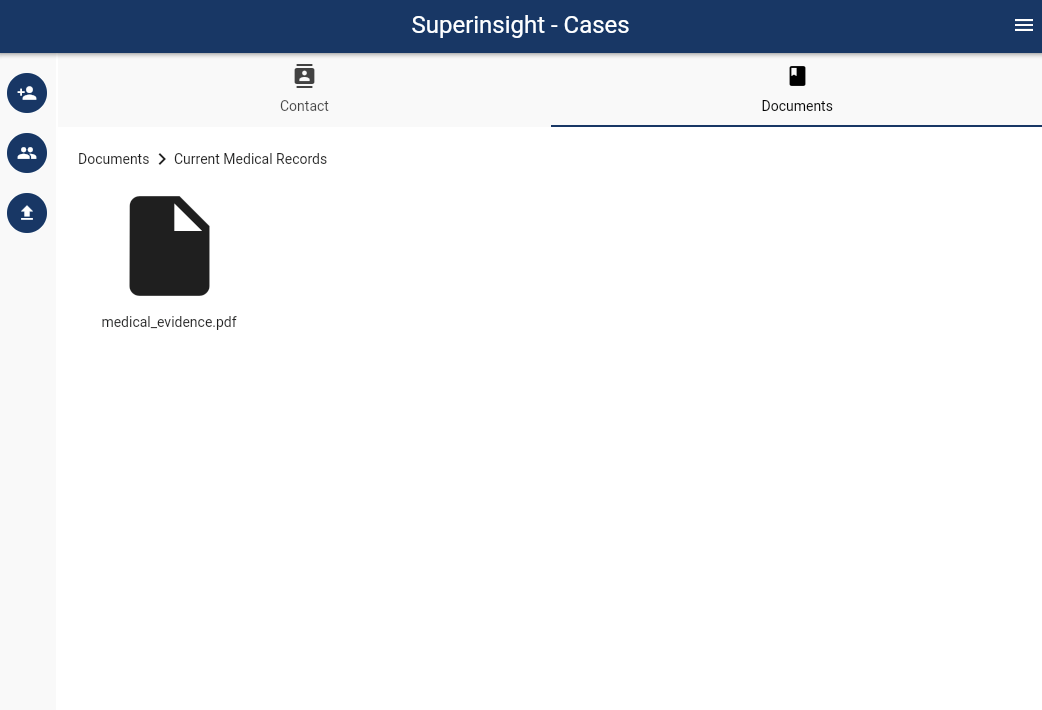
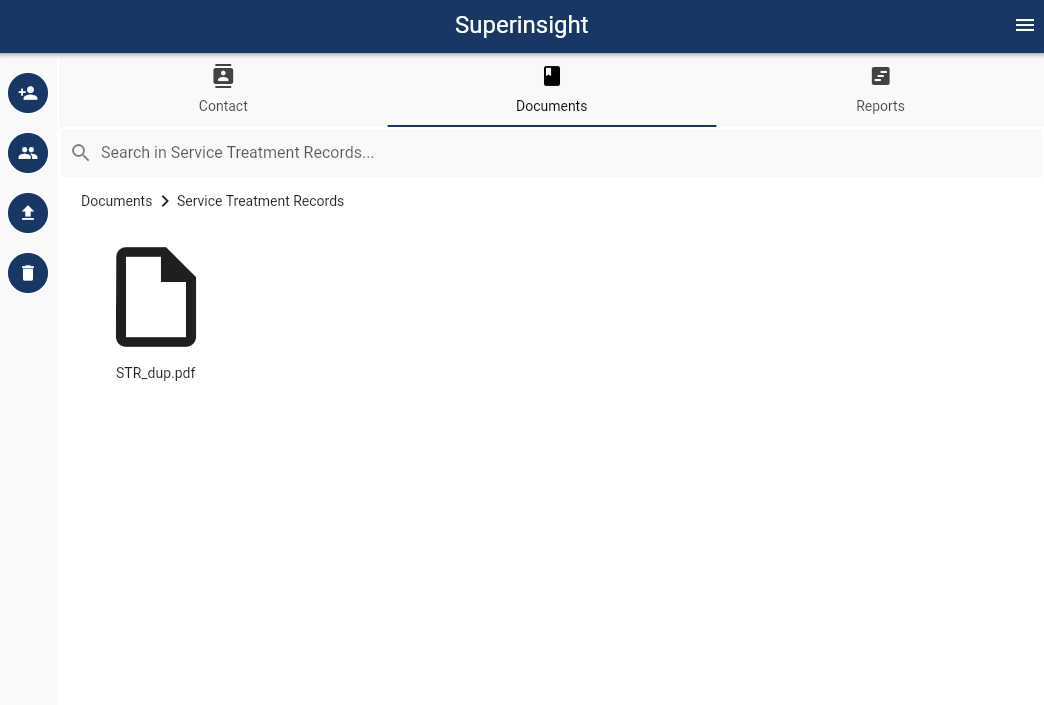
feb2024 feature update

diff --git a/docs/quickstart.md b/docs/quickstart.md
@@ -1,7 +1,7 @@
 # Quickstart
 
 This is a quickstart guide on how to use Superinsight.
-You will learn how to create your knowledge base of case contacts and how to discover insights from veterans' massive and messy documentation even hand-written files like medical reports.
+You will learn how to create your knowledge base of case contacts and how to discover insights from your daily massive and messy documentation even hand-written files like medical reports.
 
 If you don't have an account yet, sign up [for access](https://app.superinsight.me) here.
 
@@ -13,15 +13,15 @@ Build up your case information before everything, the first step is to add your 
 
 ## 2. Upload a File
 
-You can upload all the files that can help the veteran claim like STRs, medical evidence, rating decisions, and so on to the folders that Superinsight prepares and organizes for you.
+Depending on the purpose, you can upload files that can help your legal claims to the folders you created or Superinsight prepared and organized for you after you click into the folder level.
 
-After file is uploaded, you will see it in the folder as a gray color and can not be clicked on. Behind the scenes, Superinsight is processing and analyzing all the contents in your file. Depending on how big your files are, this process can take a few minutes to up to hours.
+After the file is uploaded, you will see it in the folder as a gray color and can not be clicked on. Behind the scenes, Superinsight is processing all the contents in your file. Depending on how large your files are, this process can take a few minutes to hours.
 
 Once the file is ready, as shown in the screenshots below, you can continue to the next step.
 
-=== "Upload File To Folder"
+=== "Click to Upload"
 
-    ![Upload File To Folder](assets/images/tutorial/select-upload-folder.png)
+    ![Upload File To Folder](assets/images/tutorial/case-file-upload.png)
 
 === "File In Progress"
 
@@ -43,29 +43,6 @@ Once your file is ready, you can click on the file you uploaded earlier and Supe
 
     ![Get Analysis](assets/images/tutorial/doc-analysis.png)
 
-## 4. Ask Questions
-
-If you have ANY further questions on VA, VA claims, or files you uploaded, click the menu on the right-up corner and switch to "Research" ask Superinsight, and get your answer immediately.
-
-After you get your response, you will see two icons on the right top of the message as well. The copy icon allows you to copy your message.
-The information icon will show you the references that was used for this response.
-
-=== "Research"
-
-    ![Research](assets/images/tutorial/case-to-research.png)
-
-=== "Ask Question"
-
-    ![Ask Questions](assets/images/tutorial/question-1.png)
-
-=== "Get Response"
-
-    ![File In Progress](assets/images/tutorial/response-1.png)
-
-=== "Check Reference"
-
-    ![File In Progress](assets/images/tutorial/reference-1.png)
-
-## 5. Try More
+## 4. Try More
 
 If you like to learn more advance features, please continue our guide for [How To Guide](guide/index.md)

diff --git a/docs/guide/case-files.md b/docs/guide/case-files.md
@@ -1,12 +1,12 @@
-# Veteran File
+# Upload File
 
-You can upload all the files that can help the veteran claim like STRs, medical evidence, rating decisions, and so on to the folders that Superinsight prepares and organizes for you.
+Depending on the purpose, you can upload files that can help your legal claims to the folders you created after you click into the folder level.
 
-After file is uploaded, you will see it in the folder as a gray color and can not be clicked on. Behind the scenes, Superinsight is processing and analyzing all the contents in your file. Depending on how big your files are, this process can take a few minutes to up to hours.
+After the file is uploaded, you will see it in the folder as a gray color and can not be clicked on. Behind the scenes, Superinsight is processing all the contents in your file. Depending on how large your files are, this process can take a few minutes to hours.
 
-=== "Upload File To Folder"
+=== "Click to Upload"
 
-    ![Upload File To Folder](../assets/images/tutorial/select-upload-folder.png)
+    ![Upload File To Folder](../assets/images/tutorial/case-file-upload.png)
 
 === "File In Progress"
 
@@ -16,7 +16,7 @@ After file is uploaded, you will see it in the folder as a gray color and can no
 
     ![File In Progress](../assets/images/tutorial/case-file-ready.png)
 
-Once your file is ready, you can click on the file you uploaded earlier and Superinsight will show all the key points and insights that are found in the file.
+Once your file is ready, you can click on it and preview it in our viewer. Meanwhile, Superinsight will find you all the key points and insights from the file in real time.
 
 === "Original File"
 

diff --git a/docs/guide/case-report.md b/docs/guide/case-report.md
@@ -1,0 +1,37 @@
+# Build a Report
+
+Besides real-time file analysis, Superinsight allows you to select multiple files and generate a complex report that helps you significantly reduce time you spend on reading tons of paper and get your claim way more efficiently.
+
+Simply click on the "Build Report" button on the left and select all the files you want to be included in reports Superinsight supported. Before you submit to generate, make sure your file list is correct!
+
+=== "Click to Build"
+
+    ![Build a Report](../assets/images/tutorial/build-report.png)
+
+=== "Select Report Type"
+
+    ![Select Report Type](../assets/images/tutorial/report-type.png)
+
+=== "Select Files"
+
+    ![Select Files](../assets/images/tutorial/select-file.png)
+
+=== "Confirm & Submit"
+
+    ![Confirm & Submit](../assets/images/tutorial/submit-file.png)
+
+After files are submitted, you will see the unclickable report in the "Reports" tab building behind the scenes. Once it is complete, it will turn black with the download icon, and you can check your reports anytime you want.
+
+If you check the report, you will see the elaborate table of contents and list of points you need.
+
+=== "Report List"
+
+    ![Report List](../assets/images/tutorial/report-list.png)
+
+=== "Table of Content"
+
+    ![Table of Content](../assets/images/tutorial/table-of-content.png)
+
+You can download your report in PDF format. Superinsight will combine the report and the original files so that you can easily find the critical evidence after you click on the table of contents we provided, and we will add the bookmarks for you as well.
+
+![Download Report](../assets/images/tutorial/report-pdf.png)

diff --git a/docs/guide/index.md b/docs/guide/index.md
@@ -4,12 +4,9 @@ Superinsight is a cutting-edge intelligence tool designed to streamline the VA c
 
 Learn more about Superinsight with the following How To Guide.
 
-| How To                                       | Overview                       |
-| ---------------------------------            | ------------------------------ |
-| [Manage Contact](case-contact.md)            | Add a new contact              |
-| [Veteran File](case-files.md)                | Manage cases relevant files    |
-| [Start Conversation](new-conversation.md)    | Start a new conversation       |
-| [Create Folder](folder-create.md)            | Create folder                  |
-| [Upload File](file-upload.md)                | Upload file                    |
-| [View History](history.md)                   | Load your history chat         |
-
+| How To                                       | Overview                           |
+| ---------------------------------            | ---------------------------------- |
+| [Manage Contact](case-contact.md)            | Add a new contact                  |
+| [Create Folder](case-folder.md)              | Create a new folder                |
+| [Upload File](case-files.md)                 | Manage cases relevant files        |
+| [Generate Report](case-report.md)            | Generate report from selected file |

diff --git a/docs/guide/release-notes.md b/docs/guide/release-notes.md
@@ -1,0 +1,21 @@
+# Release Notes
+
+## Overview
+
+Release notes provide the list of items on feature changes, known issues, fixes, workarounds, and deprecations for recent software releases.
+
+---------------------------------------
+
+#### February 25, 2024 Released
+
+* We added new function tab ***"Reports"***! Now you can find all of your reports here.
+
+* Now we support building reports with multiple files selected.  (see [Generate Report](case-report.md))
+
+* We remove ***"Research"*** feature from the UI, if you still need this feature, please [contact us](mailto:help@superinsight.ai), we will activate for you!
+
+* Improve file processing and report generating speed.
+
+* Minor change of UI deletion function.
+
+---------------------------------------

diff --git a/docs/guide/case-folder.md b/docs/guide/case-folder.md
@@ -1,0 +1,14 @@
+# Create a New Folder
+
+In the "Documents" tab, you can create your own folders based on the contacts and your workflow needs. 
+
+Click the "Create a New Folder" button on the left and give this folder an easily identified name.
+
+=== "Create Folders"
+
+    ![Create Folders](../assets/images/tutorial/case-folder-1.png)
+
+=== "Enter Folder Name"
+
+    ![Folder Name](../assets/images/tutorial/case-folder-2.png)
+
